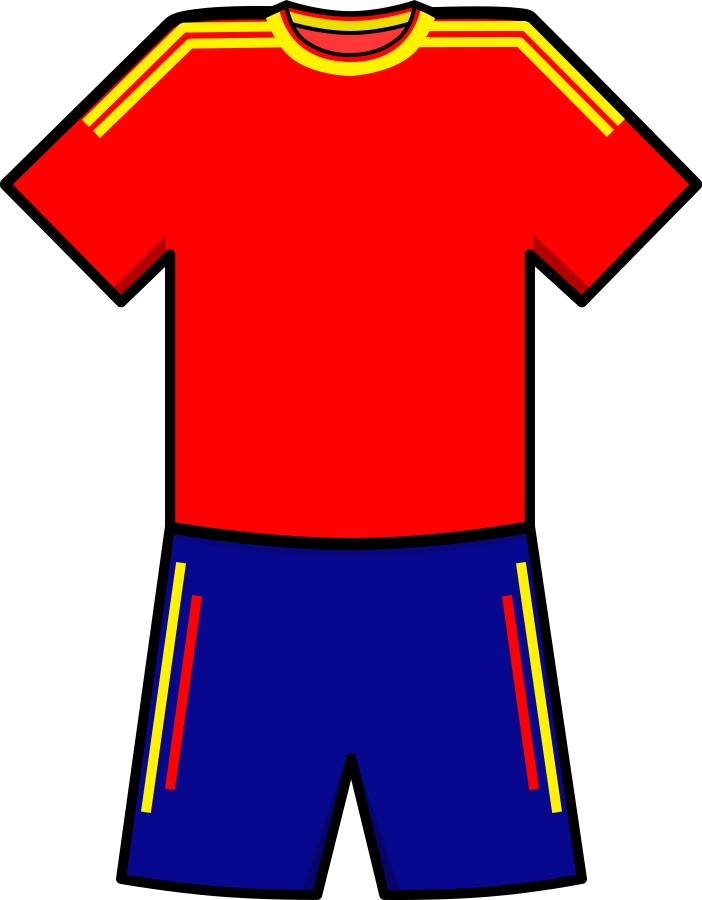
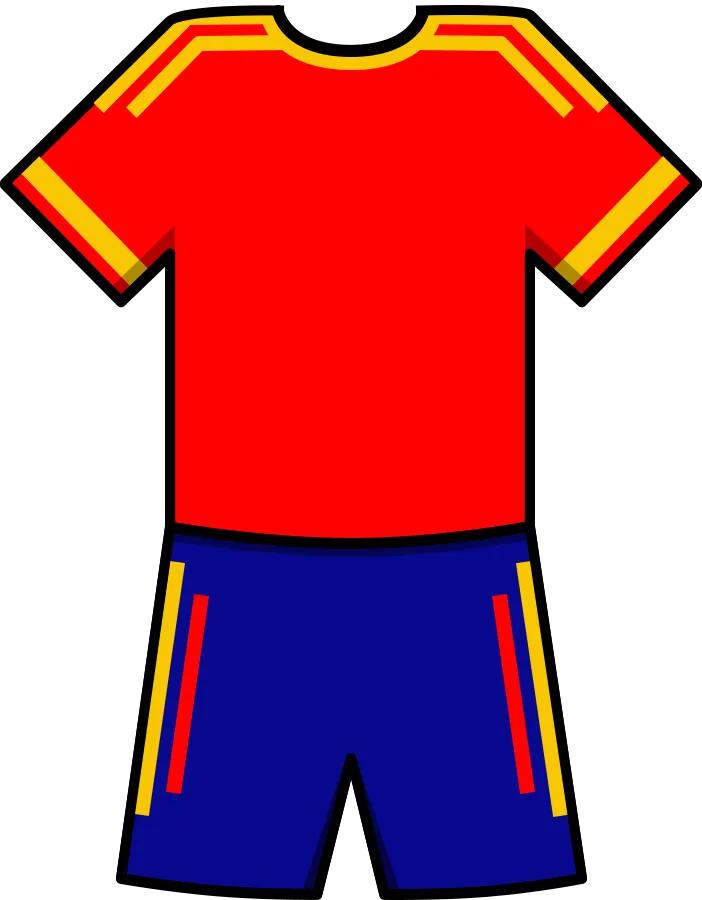
Add updated team kits and colors

diff --git a/src/data/teamKits.ts b/src/data/teamKits.ts
@@ -131,7 +131,7 @@ const TEAM_KIT_STYLE_ROWS = [
   ['si', '#FFFFFF', '#005DA4', '#005DA4', '#FFFFFF'],
   ['za', '#FFB81C', '#007749', '#007749', '#FFFFFF'],
   ['kr', '#E6002D', '#111111', '#111111', '#FFFFFF'],
-  ['es', '#AA151B', '#F1BF00', '#F1BF00', '#111111'],
+  ['es', '#FF0000', '#F9C601', '#F9C601', '#08088E'],
   ['se', '#FEF605', '#0146DC', '#0146DC', undefined],
   ['ch', '#D52B1E', '#FFFFFF', '#FFFFFF', '#111111'],
   ['tn', '#FFFFFF', '#E70013', '#E70013', '#FFFFFF'],
